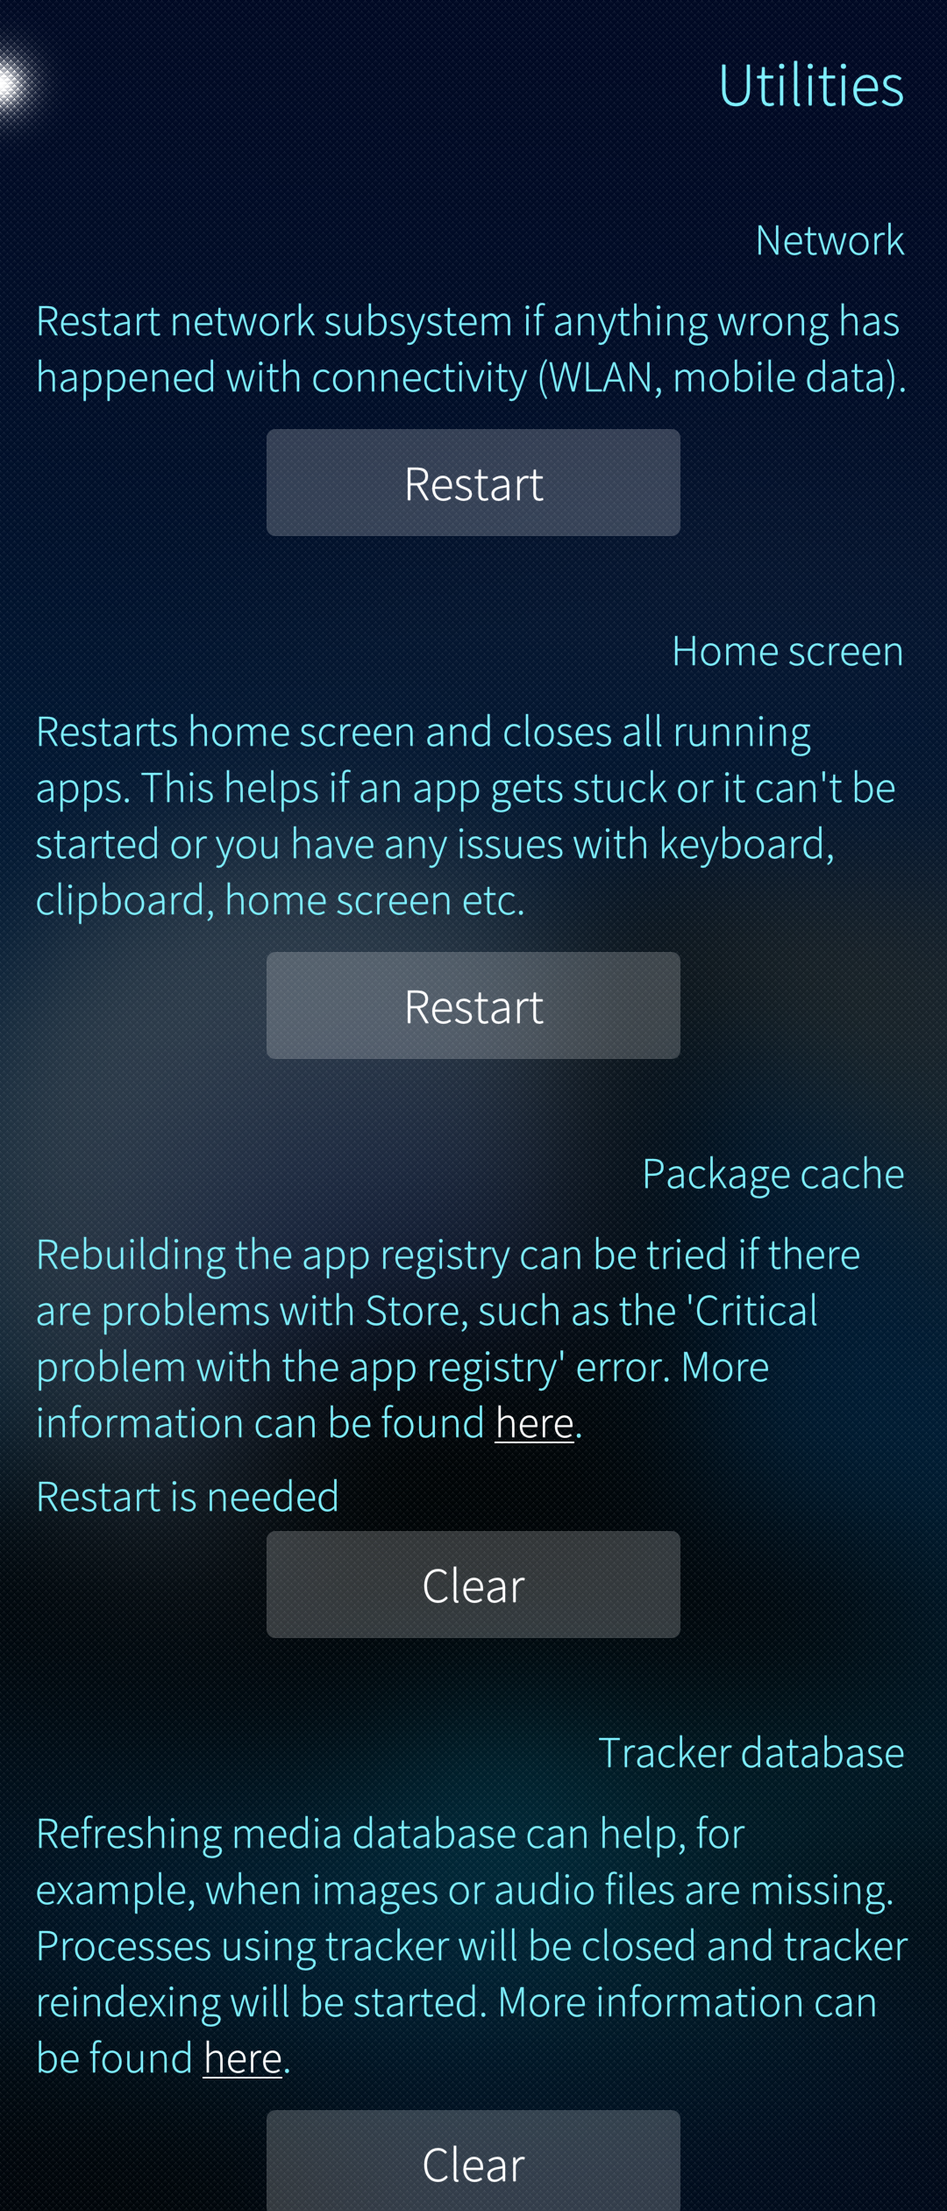
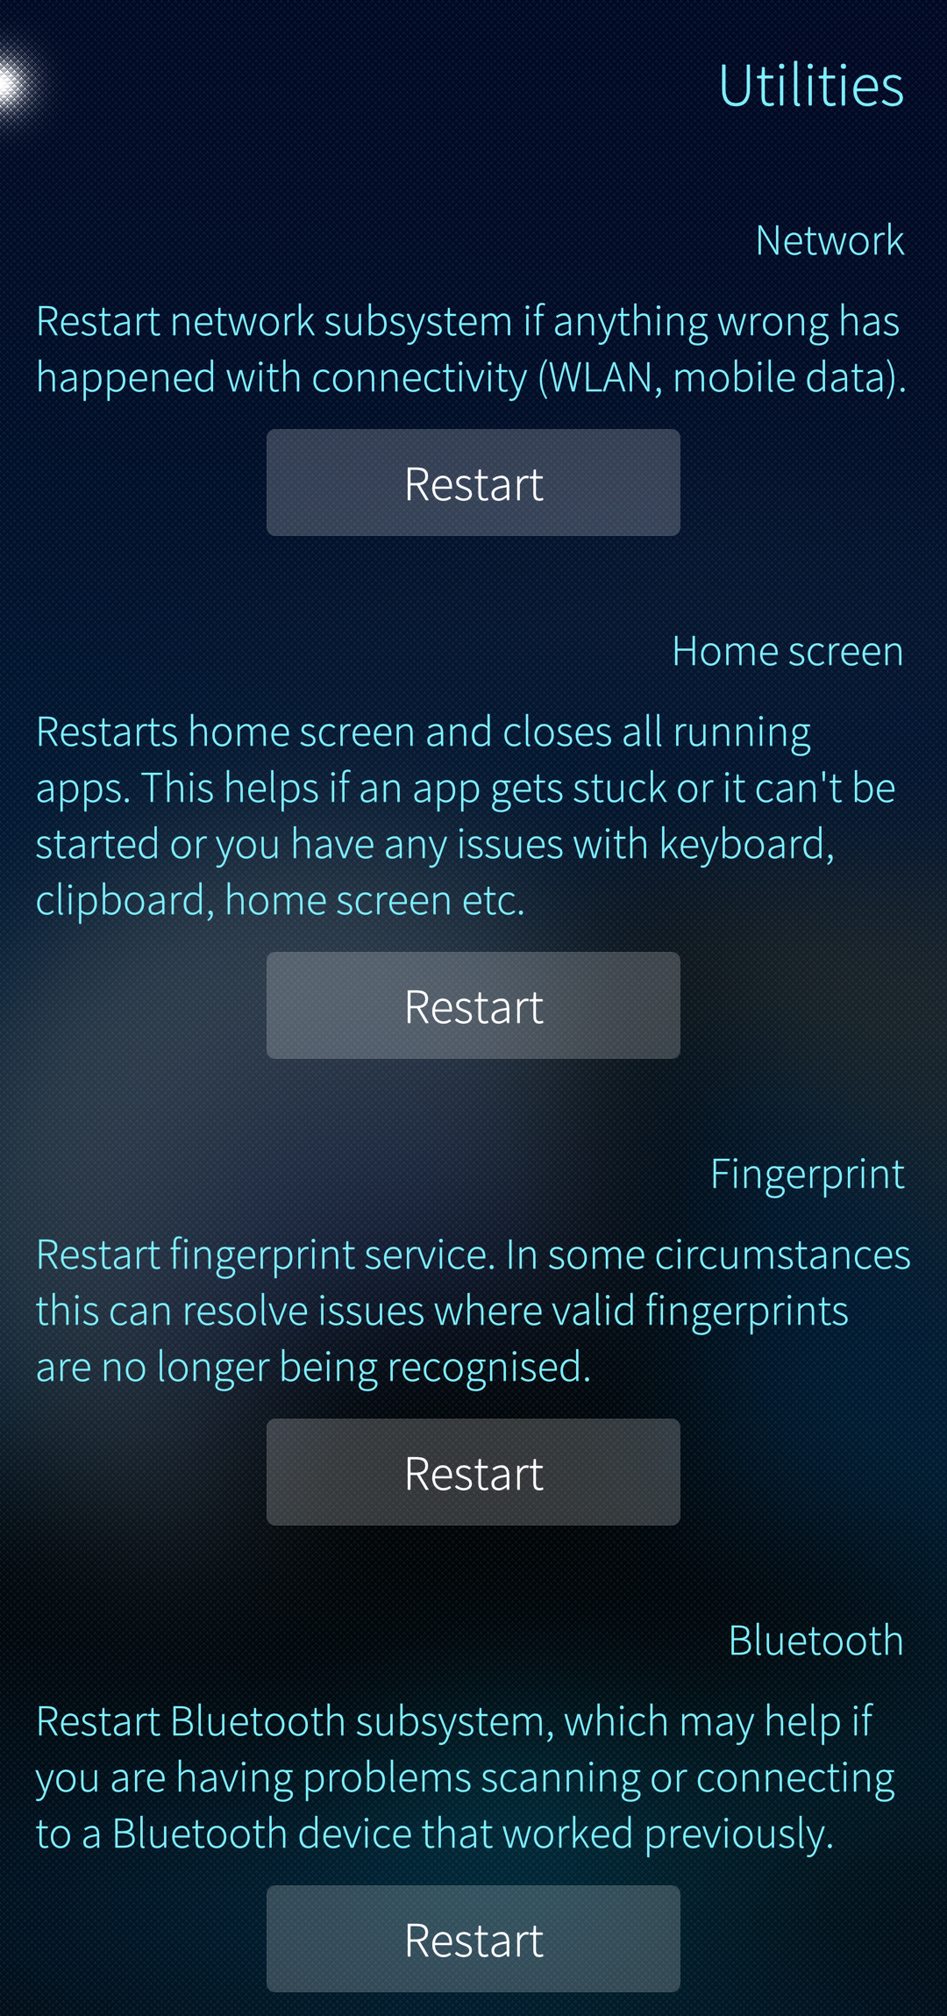
Tips and tricks: URL update, utilities update, picture format update

diff --git a/Support/Help_Articles/Tips_and_Tricks/README.md b/Support/Help_Articles/Tips_and_Tricks/README.md
@@ -33,11 +33,15 @@ All of your open apps appear as rectangles (minimized to thumbnails) in the Home
 
 If you have one app fully open, i.e., covering the entire display, you can enter the Home view by swiping leftwards from beyond the right edge of the device. This gesture will minimize the current app to a thumbnail, too. The Home view has all of the currently open apps as thumbnails.
 
-It is easy to close apps in the Home view. Long-tap any point of the display for a coupöle of seconds. The thumbnails will get small white circles with a cross on them (see below). Close one or more apps by tapping those circles. If you want to close all of your apps, pull down the command "Close all" and lift up the fingertip from the display (if nothing happens, tap "Close all").
+It is easy to close apps in the Home view. Long-tap any point of the display for a couple of seconds. The thumbnails will get small white circles with a cross on them (see below). Close one or more apps by tapping those circles. If you want to close all of your apps, pull down the command "Close all" and lift up the fingertip from the display (if nothing happens, tap "Close all").
 
-|<a href="Home-view-ready-to-close-apps.png" style="width:30em;display:block"><img src="Home-view-ready-to-close-apps.png" alt="Home view with close buttons" class="md_thumbnail" style="max-width:100%"/></a>|
-|-|
-|<span class="md_figcaption">Home view with close buttons</span>|
+<div class="flex-images" markdown="1">
+
+* <a href="Home-view-ready-to-close-apps.png" class="narrow-image"><img src="Home-view-ready-to-close-apps.png" alt="Home view with close buttons"></a>
+  <span class="md_figcaption">
+    Home view with close buttons
+  </span>
+</div>
 
 
 ## Closing the current app by swiping
@@ -47,9 +51,13 @@ An app can be closed with the gestures \[1\] shown in the picture below. Always 
 
 There is no dedicated setting for this gesture in the Settings menu, i.e., it is always enabled.
 
-|<a href="Swipe-to-close-an-app.png" style="width:30em;display:block"><img src="Swipe-to-close-an-app.png" alt="Closing an app by swiping" class="md_thumbnail" style="max-width:100%"/></a>|
-|-|
-|<span class="md_figcaption">Closing an app by swiping</span>|
+<div class="flex-images" markdown="1">
+
+* <a href="Swipe-to-close-an-app.png" class="narrow-image"><img src="Swipe-to-close-an-app.png" alt="Closing an app by swiping"></a>
+  <span class="md_figcaption">
+    Closing an app by swiping
+  </span>
+</div>
 
 
 \[1\] Sailfish gestures are explained here: **[https://sailfishos.org/design/gestures/](https://sailfishos.org/design/gestures/)**
@@ -59,10 +67,10 @@ There is no dedicated setting for this gesture in the Settings menu, i.e., it is
 
 _Sailfish OS devices just like any other electrical devices require maintenance to keep them in shape. We have written some guidelines for this._
 
-1.  Update the **Sailfish OS** operating system to its latest version. New versions bring new features to your Sailfish device and fix problems observed on earlier versions. The latest available version is the best. **[This article](https://jolla.zendesk.com/hc/en-us/articles/201836347)** tells how to update the OS. The device attempts to optimize the storage space before downloading an update; however, this may not work if there is no more space left for the optimization! Please follow the guidelines in step 5 below.
+1.  Update the **Sailfish OS** operating system to its latest version. New versions bring new features to your Sailfish device and fix problems observed on earlier versions. The latest available version is the best. **[This article](/Support/Help_Articles/Updating_Sailfish_OS/)** tells how to update the OS. The device attempts to optimize the storage space before downloading an update; however, this may not work if there is no more space left for the optimization! Please follow the guidelines in step 5 below.
 
 
-2.  Update the **applications** you have installed. Jolla Store will send reminders to your device - they appear on the **[Events Screen](https://jolla.zendesk.com/hc/en-us/articles/201440537)**. Update your Android apps in the respective application stores (e.g. Aptoide).
+2.  Update the **applications** you have installed. Jolla Store will send reminders to your device - they appear on the **[Events View](https://sailfishos.org/design/ux-framework/)**. Update your Android apps in the respective application stores (e.g. Aptoide).
 
 
 3.  Uninstall apps that you do not really use.
@@ -70,28 +78,28 @@ _Sailfish OS devices just like any other electrical devices require maintenance
 4.  **Restart the device** every now and then (for instance, once a week). Some unnecessary data may pile up in the main memory (RAM) over time. A reboot removes it.
 
 
-5.  Install the **Sailfish Utilities** toolbox (read **[this article](https://jolla.zendesk.com/hc/en-us/articles/203837576)**). The tools may help the phone out from certain problem situations.
+5.  Install the **[Sailfish Utilities toolbox](#sailfish-utilities)** (later in this same document)
 
 
 6.  Check the **status of the non-volatile storage** (disk space)
 
     * Open page Settings > Storage. By touching the graphical diagrams, you will get a view of the status of the storage space in your device.
-    * Move your valuable files (pictures, videos, documents, music) to your computer (**[see instructions](https://jolla.zendesk.com/hc/en-us/articles/201440587)**) or to your SD card (generic instructions on **[using SD cards](https://jolla.zendesk.com/hc/en-us/articles/201997993)**); then delete those files from the device (_Phone Memory_).
+    * Move your valuable files (pictures, videos, documents, music) to your computer (**[see these instructions](/Support/Help_Articles/Moving_Files_Between_PC_and_Sailfish_Device/)**) or to your SD card (generic instructions on **[using SD cards](/Support/Help_Articles/SD_Card_Format_and_Encryption/)**); then delete those files from the device (_Phone Memory_).
     * Set Sailfish Camera to save the new pictures and videos directly to the SD card at Settings > Apps > Camera.
     * Pay attention to the amount of data collected by your Android apps in the folder `$HOME/android_storage/` in the Device Memory. Especially various map apps, games and apps like Spotify and Whatsapp may collect a lot of data in the long run.
-    * Delete your downloaded email attachments (if you do not need them) kept in `$HOME/Downloads/mail_attachments/`. This is easiest to do with **[File Browser](https://jolla.zendesk.com/hc/en-us/articles/205281757)** application.
+    * Delete your downloaded email attachments (if you do not need them) kept in `$HOME/Downloads/mail_attachments/`. This is easiest to do with **[File Browser](/Support/Help_Articles/File_Browser/)** application.
 
 
-    Please find more complete instructions in the article "**[Freeing up storage space on your device](https://jolla.zendesk.com/hc/en-us/articles/206354737)**".
+    Please find more complete instructions in the article "**[Storage space](/Support/Help_Articles/Storage_Space/)**".
 
 
 7.  **Close the apps** you do not need continuously. Although SailfishOS is a multitasking operating system it may not always be possible to handle a large number of apps at the same time in the available memory (RAM).
 
 
-8.  Remember to make a **backup** of your data on a regular basis either to the SD card or to a cloud service. If your device should malfunction badly it may need to be reset to the factory settings in which case all data in the device memory would be lost. The backup will remain intact in the memory card and in the cloud service. Instructions on backups are **[in this article](https://jolla.zendesk.com/hc/en-us/articles/201804906)**.
+8.  Remember to make a **backup** of your data on a regular basis either to the SD card or to a cloud service. If your device should malfunction badly it may need to be reset to the factory settings in which case all data in the device memory would be lost. The backup will remain intact in the memory card and in the cloud service. Instructions on backups are **[in this article](/Support/Help_Articles/Backup_and_Restore/)**.
 
 
-9.  If the **charge level of the battery** goes down faster than expected then read **[this article](https://jolla.zendesk.com/hc/en-us/articles/201922397)** and consider the proposed different ways of saving energy.
+9.  If the **charge level of the battery** goes down faster than expected then read **[this article](/Support/Help_Articles/Battery_Lifetime/)** and consider the proposed different ways of saving energy.
 
 
 # Forced power off
@@ -113,14 +121,14 @@ Use the Power key to turn the phone on, again.
 
 There are the following ways to "clean up" a Sailfish phone. All user data, accounts and installed apps are deleted.
 
-1. Device reset (a.k.a. factory reset) - see **[this article](https://jolla.zendesk.com/hc/en-us/articles/201890427)**. This requires that the menus of the phone are still avalable.
-2. Reinstallation ("flashing") of Sailfish to Xperia phones - see **[this article](https://jolla.zendesk.com/hc/en-us/articles/360002304714)**
-3. Recovery mode - see the instructions for **[Xperia phones](https://jolla.zendesk.com/hc/en-us/articles/360002996893)**, **[Jolla Phone](https://jolla.zendesk.com/hc/en-us/articles/204709607)**, and **[Jolla Tablet](https://jolla.zendesk.com/hc/en-us/articles/208406917)**
+1. Device reset (a.k.a. factory reset) - see **[this article](/Support/Help_Articles/Factory_Reset/)**. This requires that the menus of the phone are still avalable.
+2. Reinstallation ("flashing") of Sailfish to Xperia phones - see **[this article](/Support/Help_Articles/Reinstalling_Sailfish_OS/#installing-sailfish-x-again-to-xperia)**
+3. Recovery mode - see the instructions for **[recent Xperia phones](/Support/Help_Articles/Recovery_Mode/)**, **[older Xperia models](https://jolla.zendesk.com/hc/en-us/articles/360002996893)**, **[Jolla Phone](https://jolla.zendesk.com/hc/en-us/articles/204709607)**, and **[Jolla Tablet](https://jolla.zendesk.com/hc/en-us/articles/208406917)**
 
 We compare options 1 and 2 in the table below.
 
 |        | **PRO** | **CON** |
-| **Device reset** | * can be done with the phone only, no extra devices are needed<br>* simple to do via the phone UI as the command line (Linux commands) is not needed  <br>    NB:  _not available on Xperia 10 II nor on Xperia 10 III_ | * reverts the phone OS to an old version _(which must be updated)_<br>* after the reset, the OS update chain must traverse all **[Stop Releases](https://jolla.zendesk.com/hc/en-us/articles/201836347#4.1)** \- there may be plenty of them - lots of work and may take several hours<br>* the old OS version remains on the phone _(so, another reset later would require lots of work)_<br>* there are some known issues with the OS update chain - you would risk hitting them |
+| **Device reset** | * can be done with the phone only, no extra devices are needed<br>* simple to do via the phone UI as the command line (Linux commands) is not needed  <br>    NB:  _not available on Xperia 10 II nor on Xperia 10 III_ | * reverts the phone OS to an old version _(which must be updated)_<br>* after the reset, the OS update chain must traverse all **[Stop Releases](https://docs.sailfishos.org/Support/Releases/)** \- there may be plenty of them - lots of work and may take several hours<br>* the old OS version remains on the phone _(so, another reset later would require lots of work)_<br>* there are some known issues with the OS update chain - you would risk hitting them |
 | **Reinstallation** | * you will get the latest OS version right away<br>* you would avoid the potential issues with the OS update chain as there is no need to update<br>* if the phone should be reset in the future, the reset would revert the OS to this fairly recent version only _(as the recovery version is updated in this process)_<br>* it takes only 10-15 minutes if the flashing environment is ready on a PC<br>* this clean-up is more powerful than the device reset | * preparing the flashing environment on a PC may take time from an inexperienced user _(although we have good instructions for you)_<br>* problems with USB ports are typical especially with some Linux flavours<br>* installing the _fastboot_ drivers to Windows is somewhat complicated<br>* not possible for Jolla Phone, Jolla C nor Jolla Tablet as flashable OS images are not available |
 
 NOTE: The common drawback with both device reset and reinstallation is that all data, apps, and accounts are deleted from the phone. A complete re-setup is needed afterward.
@@ -136,9 +144,9 @@ Sailfish OS supports several ways of capturing pictures from the device display.
 
 The pictures are saved to the folder "Pictures > Screenshots".  They can be viewed in the category Screenshots of the Gallery app.
 
-2) Some external application sources, for instance, [openrepos.net](https://openrepos.net/), may have alternative tools for capturing the screen contents.
+2) Some external application sources, for instance, **[openrepos.net](https://openrepos.net/)**, may have alternative tools for capturing the screen contents.
 
-3) It is also possible to trigger a screenshot at the command line. The following _dbus-send_ command makes the camera shoot a screenshot. This works over an **[SSH connection](https://jolla.zendesk.com/hc/en-us/articles/360011418259)**, too.
+3) It is also possible to trigger a screenshot at the command line. The following _dbus-send_ command makes the camera shoot a screenshot. This works over an **[SSH connection](/Support/Help_Articles/SSH_and_SCP/)**, too.
 
 The pictures are saved to the folder "Pictures > Screenshots" in this case, too, unless you change the path on the last line of the command. The banner "Screenshot captured" briefly appears at the top part of the phone display" but there is no sound in this case.
 
@@ -160,21 +168,27 @@ Sailfish OS does not support capturing video clips.
 
 Sailfish Utilities is a collection of tools for healing a Sailfish device which does not perform well. The tools are designed to help if your device feels sluggish, it's running out of disk space or you're experiencing problems with connectivity.
 
-You can install Utilities from **[Jolla Store](https://jolla.zendesk.com/hc/en-us/articles/201440367)**. Search for **Sailfish Utilities** in the Store. After having been installed it appears near the end of the page "Settings > System" by the name **Utilities** (i.e., there is no app icon at the app grid for it).
+You can install Utilities from **[Jolla Store](/Support/Help_Articles/Jolla_Store/)**. Search for **Sailfish Utilities** in the Store. After having been installed it appears near the end of the page "Settings > System" by the name **Utilities** (i.e., there is no app icon at the app grid for it).
 
-|<a href="Settings.png" style="width:30em;display:block"><img src="Settings.png" alt="Sailfish Utilities" class="md_thumbnail" style="max-width:100%"/></a>|
-|-|
-|<span class="md_figcaption">Settings</span>|
+Utilities have the following tools currently (this order of items is from OS release 4.5.0):
 
-Utilities have the following tools currently - the purpose of them is described in the app itself, too.
+<div class="flex-images" markdown="1">
 
-|<a href="Utilities-1.png" style="width:30em;display:block"><img src="Utilities-1.png" alt="Sailfish Utilities 1/2" class="md_thumbnail" style="max-width:100%"/></a>|
-|-|
-|<span class="md_figcaption">Sailfish Utilities 1/2</span>|
+* <a href="Utilities-1.png" class="narrow-image"><img src="Utilities-1.png" alt="Utilities 1/2"></a>
+  <span class="md_figcaption">
+    Utilities 1/2
+  </span>
+</div>
 
-|<a href="Utilities-2.png" style="width:30em;display:block"><img src="Utilities-2.png" alt="Sailfish Utilities 2/2" class="md_thumbnail" style="max-width:100%"/></a>|
-|-|
-|<span class="md_figcaption">Sailfish Utilities 2/2</span>|
+<div class="flex-images" markdown="1">
+
+* <a href="Utilities-2.png" class="narrow-image"><img src="Utilities-2.png" alt="Utilities 2/2"></a>
+  <span class="md_figcaption">
+    Utilities 2/2
+  </span>
+</div>
+
+
 
 
 ## Restart network connections
@@ -184,7 +198,7 @@ This tool initializes the WLAN and mobile data networks. You need not restart th
 _Issues that might get solved by running this utility:_
 
 * If you get constant notifications of connecting to either Mobile Data or WLAN, even you are already connected to a network
-* You've noticed an exclamation mark ("!") on your Mobile Data and/or WLAN connection indicator in the **[Lock Screen](https://jolla.zendesk.com//hc/en-us/articles/201440657)**
+* You've noticed an exclamation mark ("!") on your Mobile Data and/or WLAN connection indicator in the **[Lock Screen](https://sailfishos.org/design/ux-framework/)**
 * Apps report you being offline even though you are connected to the Internet.
 
 
@@ -195,10 +209,19 @@ _Issues that might get solved by running this utility:_
 This useful tool can be used if an application gets stuck or can't be launched.
 
 
+## Restart the fingerprint service
+
+If your valid fingerprints saved to the device are no more recognised, it may help to restart the fingerprint service.
+
+
+## Restart the Bluetooth service
+
+If there are problems with detecting nearby Bluetooth devices or with connecting to them it is worth trying to restart the Bluetooth service.
+
+
 ## Fix the package cache
 
-
-If you should have problems with installing and managing apps from the Jolla Store then this tool is likely to help. It removes the potential collection of unnecessary code packages piled up in the device.
+If there are problems with installing and managing apps from the Jolla Store then this tool is likely to help. It removes the potential collection of unnecessary code packages piled up in the device.
 
 _Issues that this utility might solve:_
 
@@ -207,9 +230,9 @@ _Issues that this utility might solve:_
 * You can't uninstall applications using the Jolla Store.
 
 
-## Refresh the media database
+## Refresh the Tracker database
 
-This tool is to clear the media file index. Use it if not all of your music or pictures appear in the relevant apps.
+This tool is to clear the **[Tracker database](#clearing-the-media-database)** holding the media file index. Use it if not all of your music or pictures appear in the relevant apps.
 
 Some issues that running this utility may solve:
 
@@ -218,30 +241,27 @@ Some issues that running this utility may solve:
 * If you can't see all your images and photos in the Gallery application
 * If you can't see all of your images in Android applications.
 
-
-## Restart the fingerprint service
-
-If your valid fingerprints saved to the device are no more recognised, it may help to restart the fingerprint service.
+If this utility did not bring any help consider using the command line tricks of the next chapter.
 
 
 
 # Clearing the media database
 
-Sailfish OS has a worker called **Tracker**. Tracker harvests all media/document folders in a Sailfish device and in the memory card (if any), creating a registry of files found. We call this registry by the name of _the media database_ in this article.
+Sailfish OS has a worker called _Tracker_. Tracker harvests all media/document folders in a Sailfish device and in the memory card (if any), creating a registry of files found. We call this registry by the name of _the media database_ in this article.
 
 Sailfish media database contains the locations of music files, pictures, videos, and documents.
 
-The Tracker starts reindexing your files right after resetting the database in chapters #1 or #2 below. After a few minutes, apps like Gallery and Media should show the updated media content.
+The Tracker starts reindexing your files right after resetting the database. After a few minutes, apps like Gallery and Media should show the updated media content.
 
 ## Sailfish Utilities - the recommended way
 
-It may happen that the database gets corrupted. Then, it is possible to refresh it by using **[Sailfish Utilities](https://jolla.zendesk.com//hc/en-us/articles/203837576)**. The device should be restarted after this. It may take a couple of minutes before Tracker has re-created the database.
+It may happen that the database gets corrupted. Then, it is possible to refresh it by using the utility **[Refresh the tracker database](#refresh-the-tracker-database)**. The device should be restarted after this. It may take a couple of minutes before Tracker has re-created the database.
 
-Try this first. If it does not help you out then proceed to the next chapter.
+Try that utility first. If it does not help then proceed to the next chapter.
 
 ## Command line
 
-If the database gets badly corrupted then it may be necessary to go to the command line (Terminal app) and reset the database there. Using the command line requires that you first enable the **[Developer mode](https://jolla.zendesk.com//hc/en-us/articles/202011863)**. Note that those commands do not erase any media files - they only clear the registry.
+If the database gets badly corrupted then it may be necessary to go to the command line (Terminal app) and reset the database there. Using the command line requires that you first enable the **[Developer mode](/Support/Help_Articles/Enabling_Developer_Mode/)**. Note that those commands do not erase any media files - they only clear the registry.
 
 **a) Sailfish OS releases 4.2.0 and earlier**
 
@@ -275,7 +295,7 @@ tracker3 reset -s
 
 Easiest way to check licenses is to go to **Settings > About product** and scroll a bit down and click "see information about packages" which takes you to the list of packages with licenses and shows you all the open source licenses.
 
-If you have AppSupport installed you can check open source licenses related to AppSupport at **Settings > Android<sup>TM</sup> App Support > Show licences**
+If you have AppSupport installed you can check open source licenses related to AppSupport at **"Settings > Android<sup>TM</sup> App Support > Show licences"**.
 
 You can also use following command in terminal in case you have developer mode installed:
 ```
